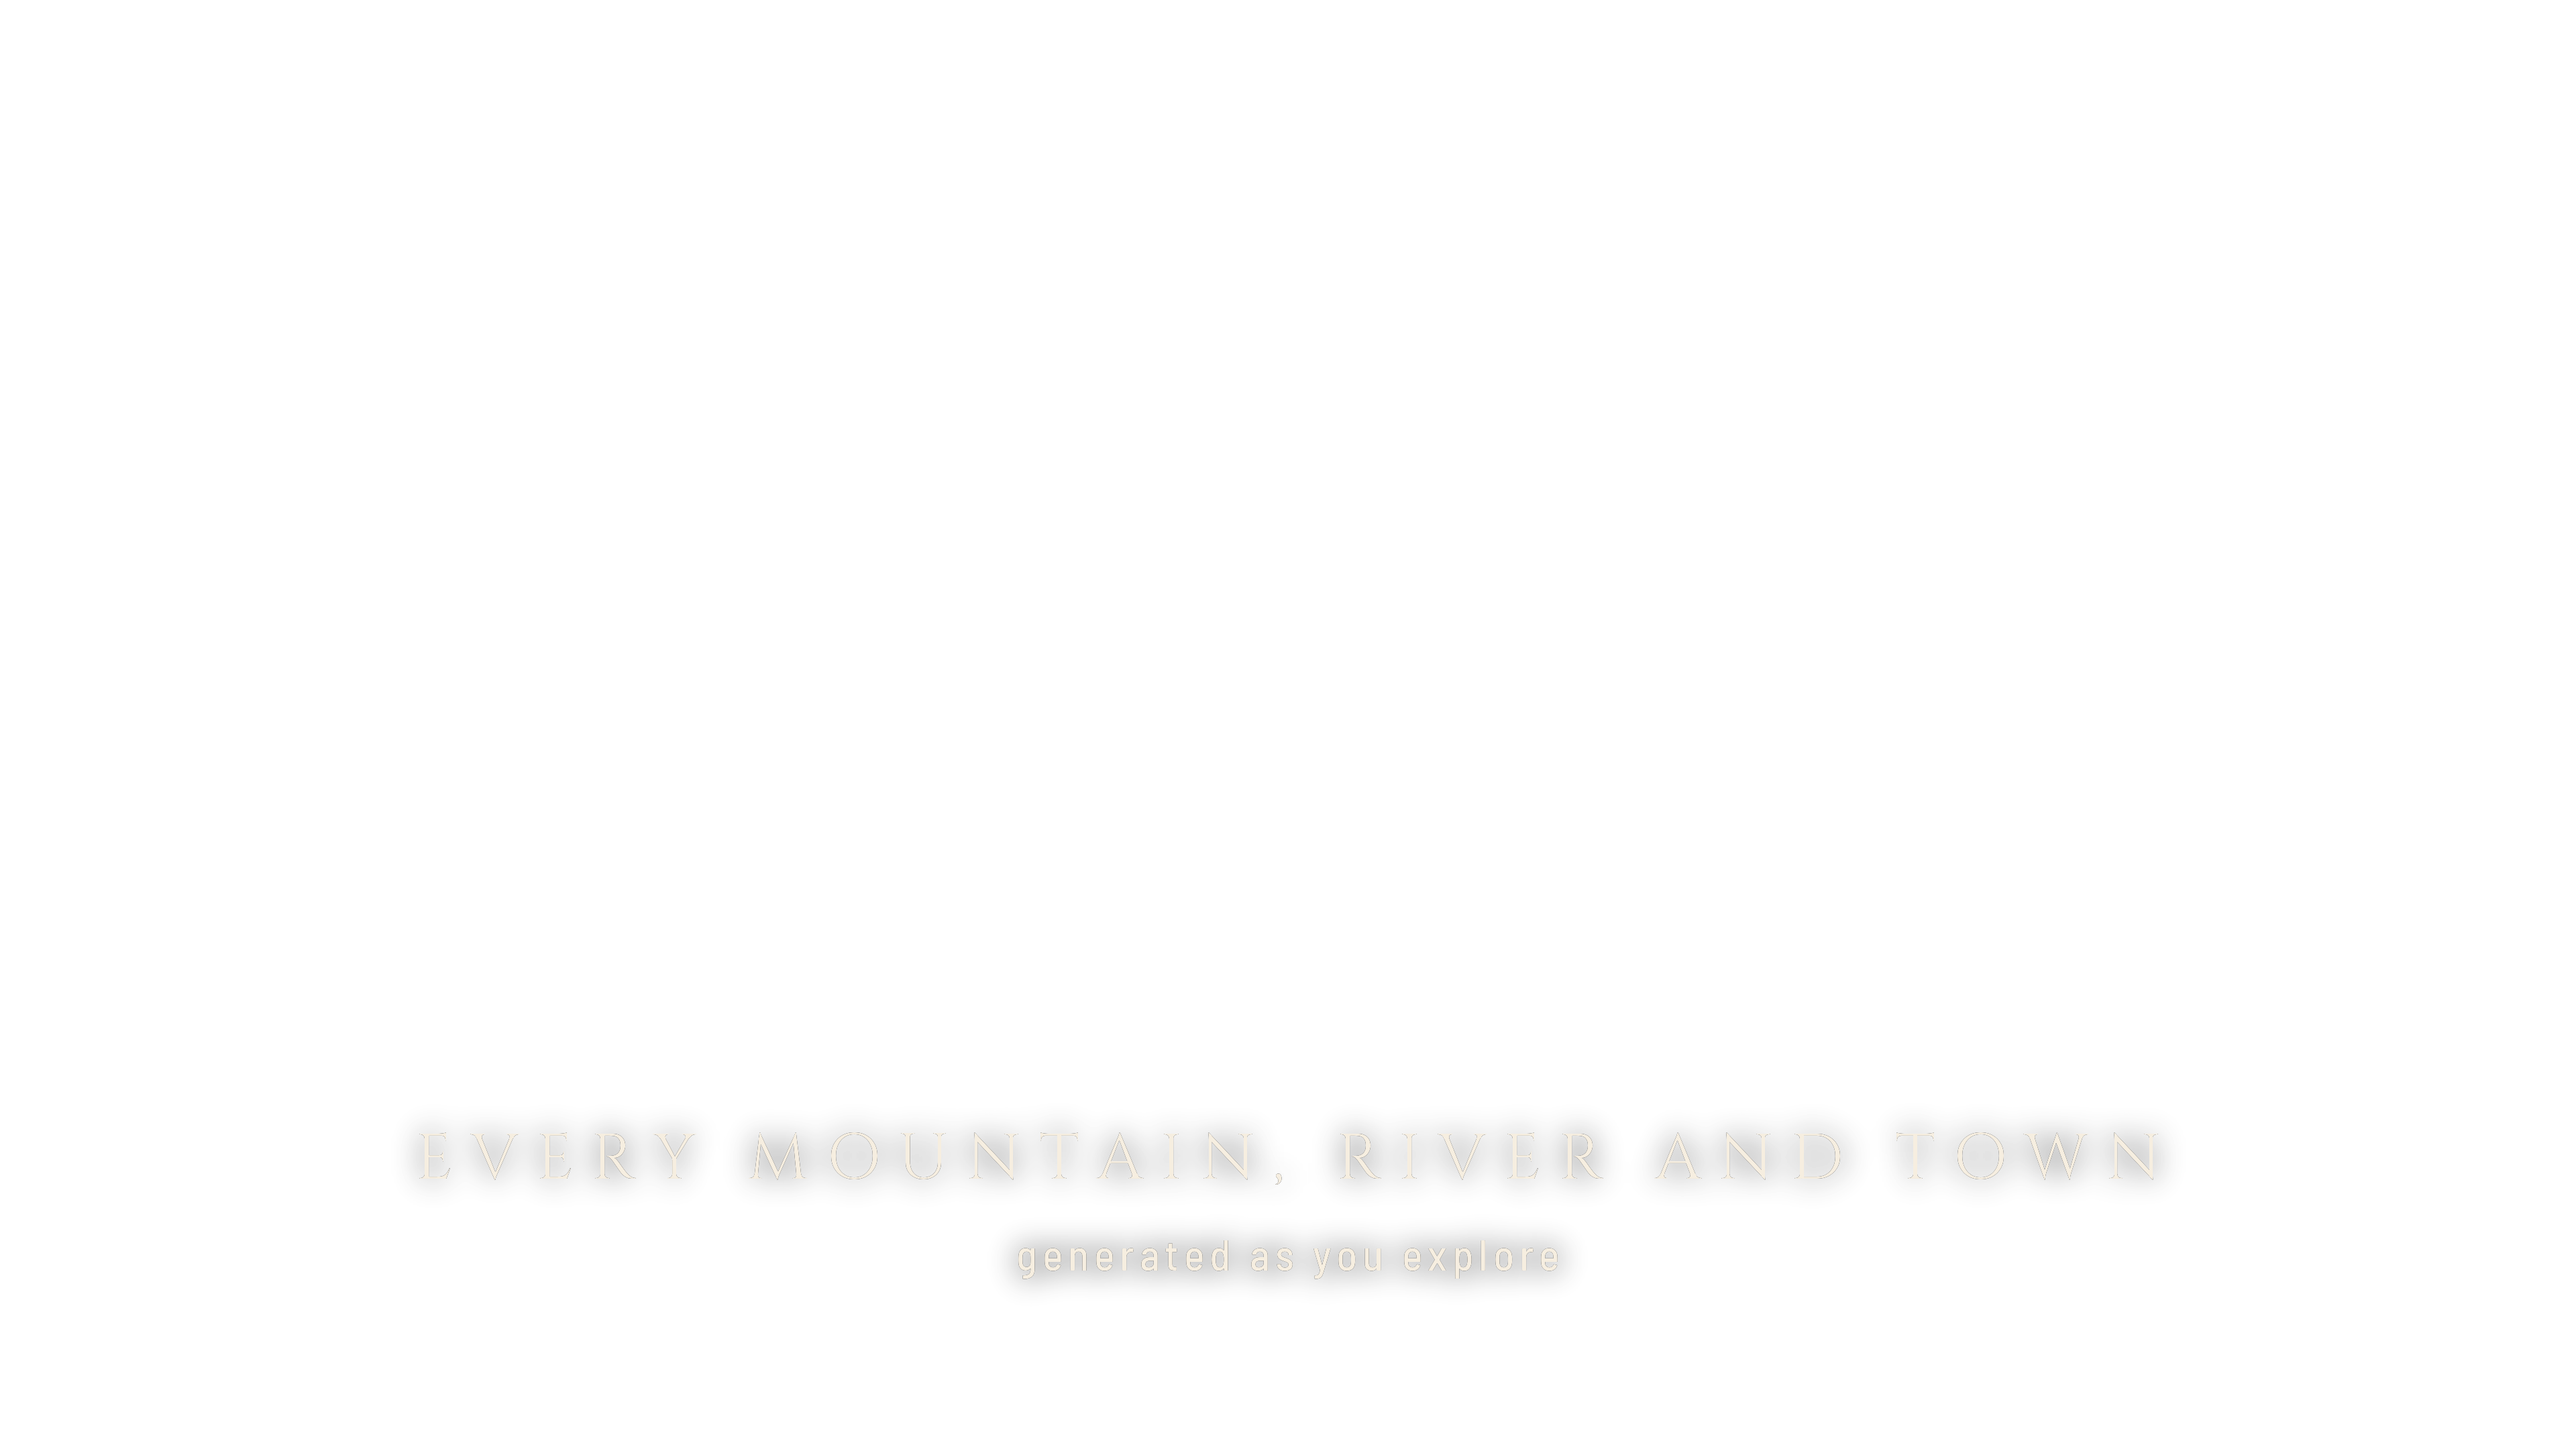
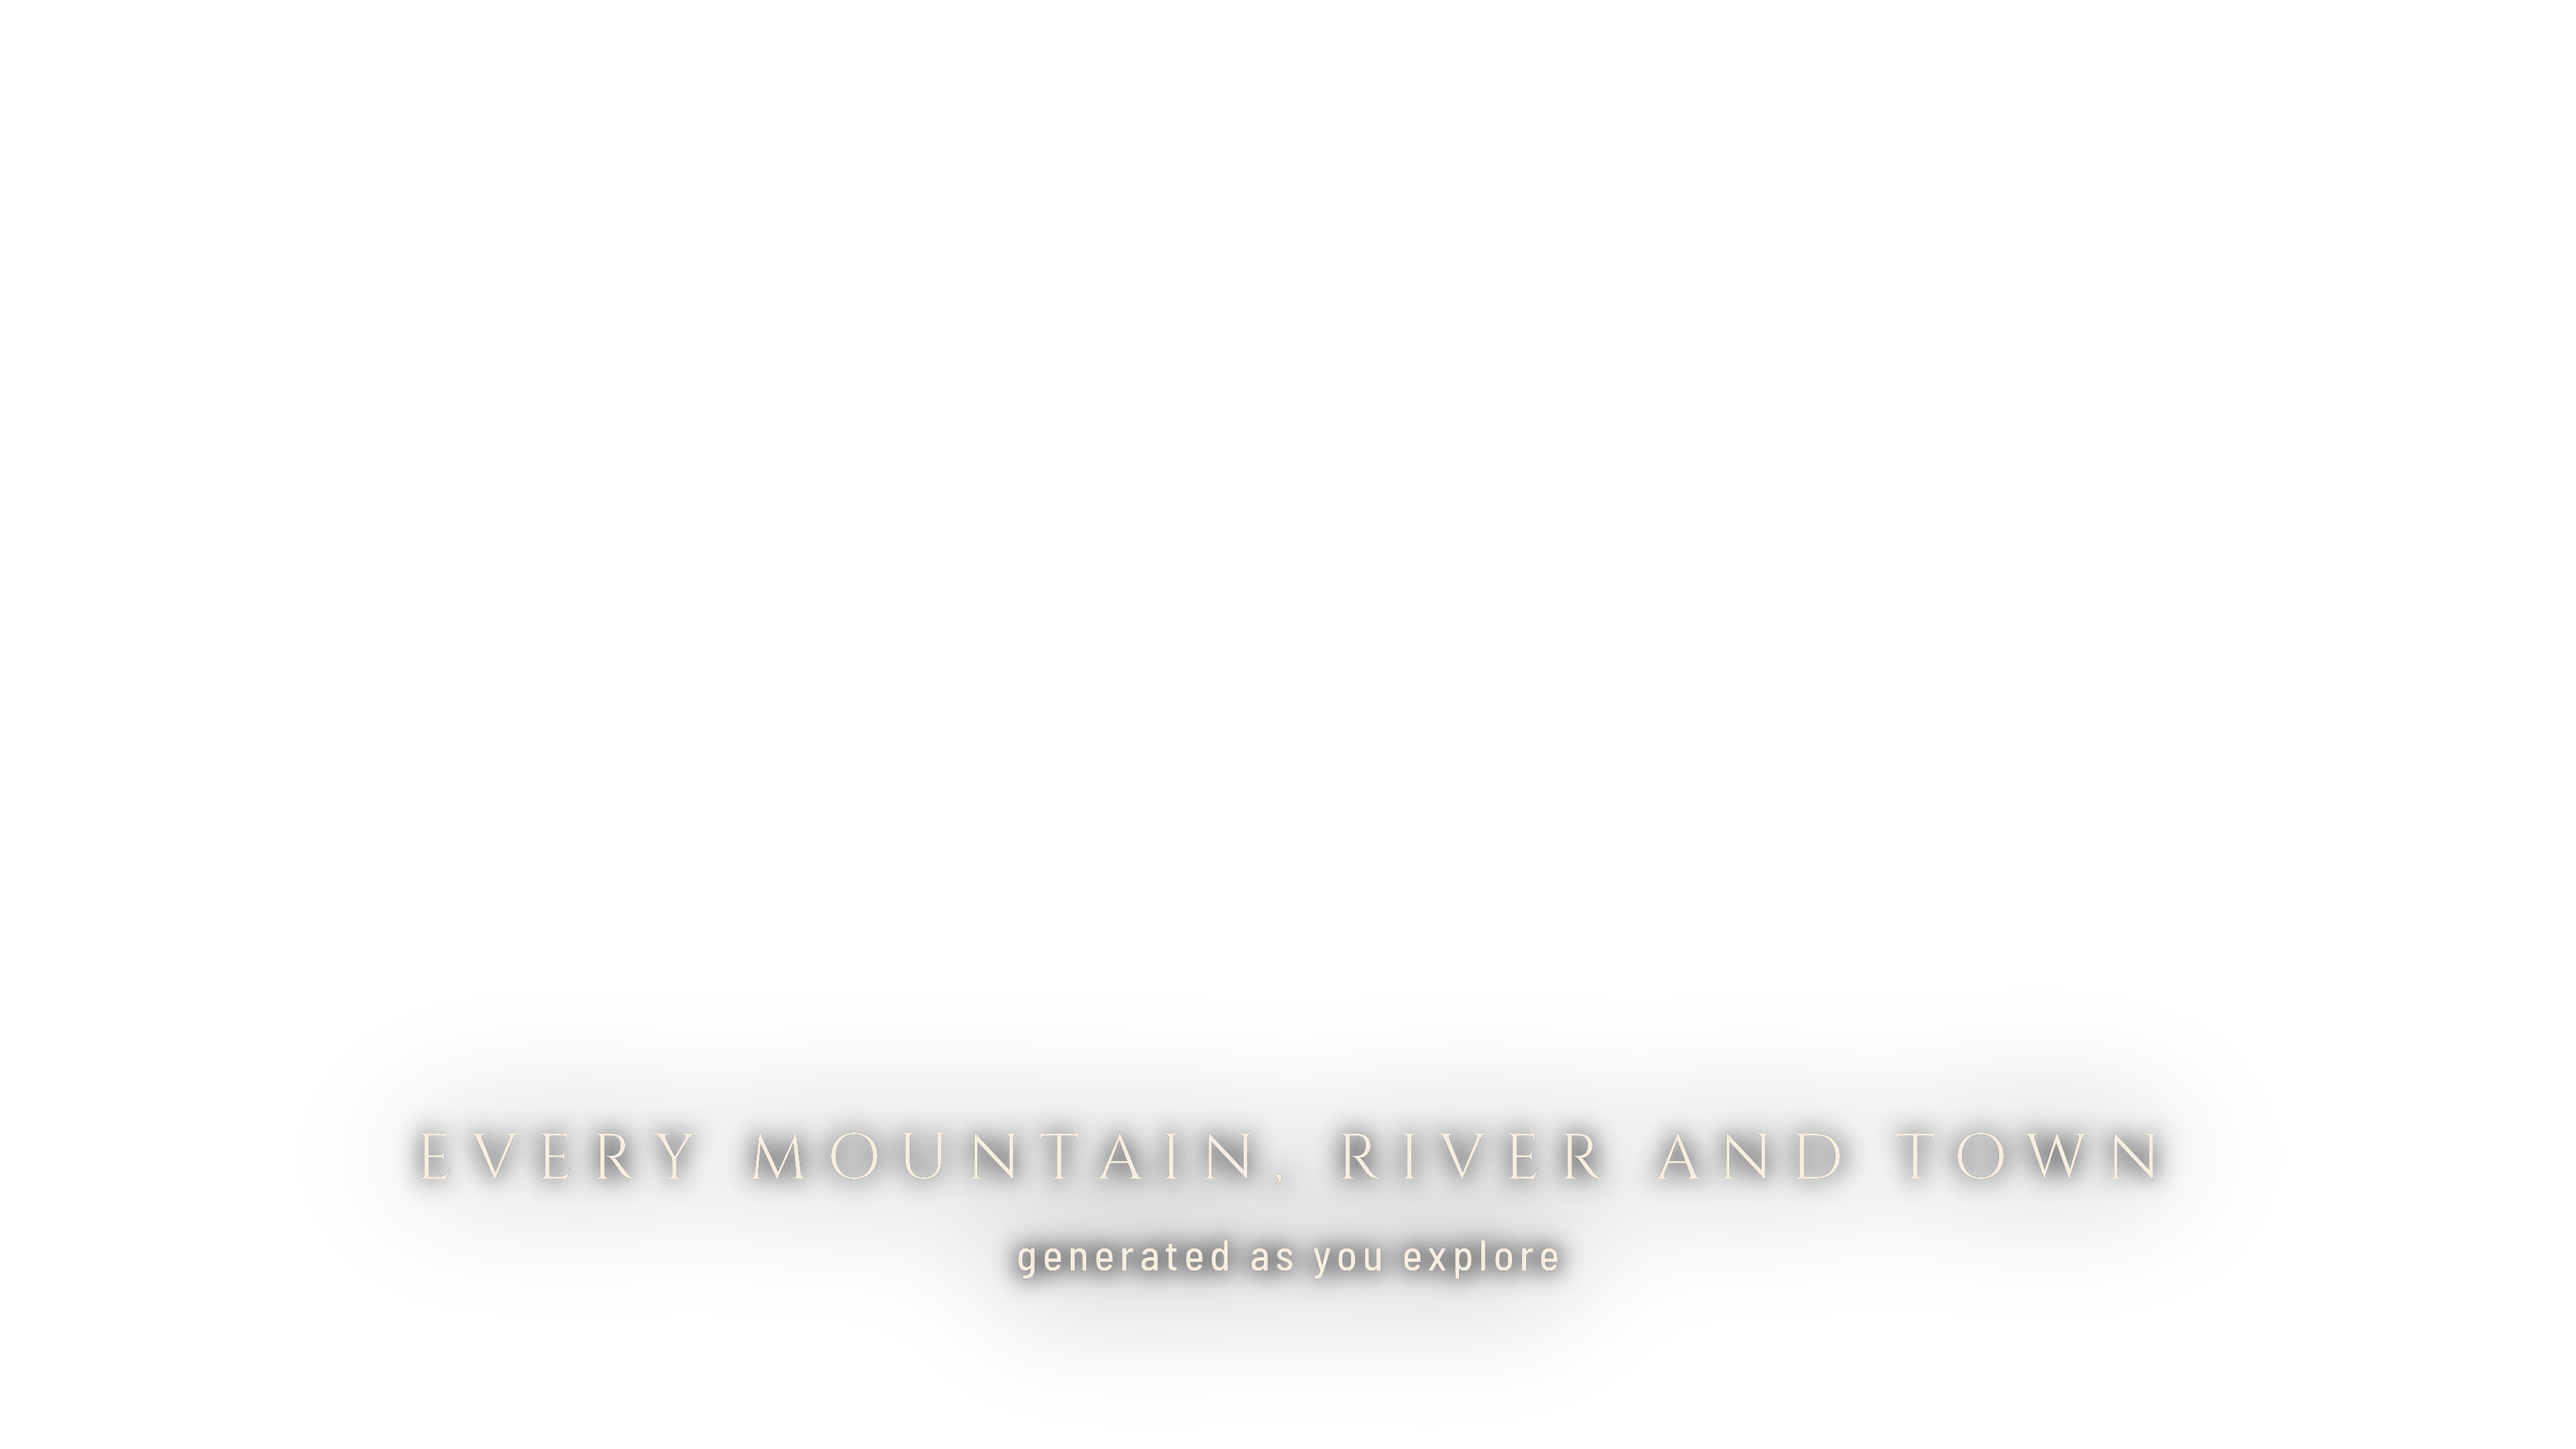
Trailer titles: a broad dark haze and firmer shadow behind each line, readable over bright ground
Claude-Session: https://claude.ai/code/session_019Kfrb74AqCNHN1jYaLzdCV

Changed region(s): [[0.1562, 0.7755, 0.8438, 0.8995]]

diff --git a/tools/trailer_titles.py b/tools/trailer_titles.py
@@ -53,10 +53,16 @@ def card(lines):
         w = tracked_width(t, f, tr)
         asc, desc = f.getmetrics()
         draw_tracked(d, ((W - w) / 2, H * yf - (asc + desc) / 2), t, f, tr, 255)
-    # A wide soft shadow under the letters keeps them readable over bright sky.
-    shadow = text.filter(ImageFilter.GaussianBlur(22)).point(lambda v: min(255, int(v * 1.6)))
+    # A broad dark haze round the line and a tighter shadow under the letters keep them
+    # readable over bright sky and busy ground alike.
+    haze = text.filter(ImageFilter.GaussianBlur(80)).point(lambda v: min(255, int(v * 5.0)))
+    haze = haze.filter(ImageFilter.GaussianBlur(60))
+    shadow = text.filter(ImageFilter.GaussianBlur(18)).point(lambda v: min(255, int(v * 2.0)))
     img = Image.new("RGBA", (W, H), (0, 0, 0, 0))
-    img.paste((0, 0, 0, 255), (0, 0), shadow.point(lambda v: int(v * 0.55)))
+    img.paste((0, 0, 0, 255), (0, 0), haze.point(lambda v: int(v * 0.42)))
+    dark = Image.new("RGBA", (W, H), (0, 0, 0, 255))
+    dark.putalpha(shadow.point(lambda v: int(v * 0.75)))
+    img = Image.alpha_composite(img, dark)
     img.paste((246, 238, 224, 255), (0, 0), text)
     return img
 
